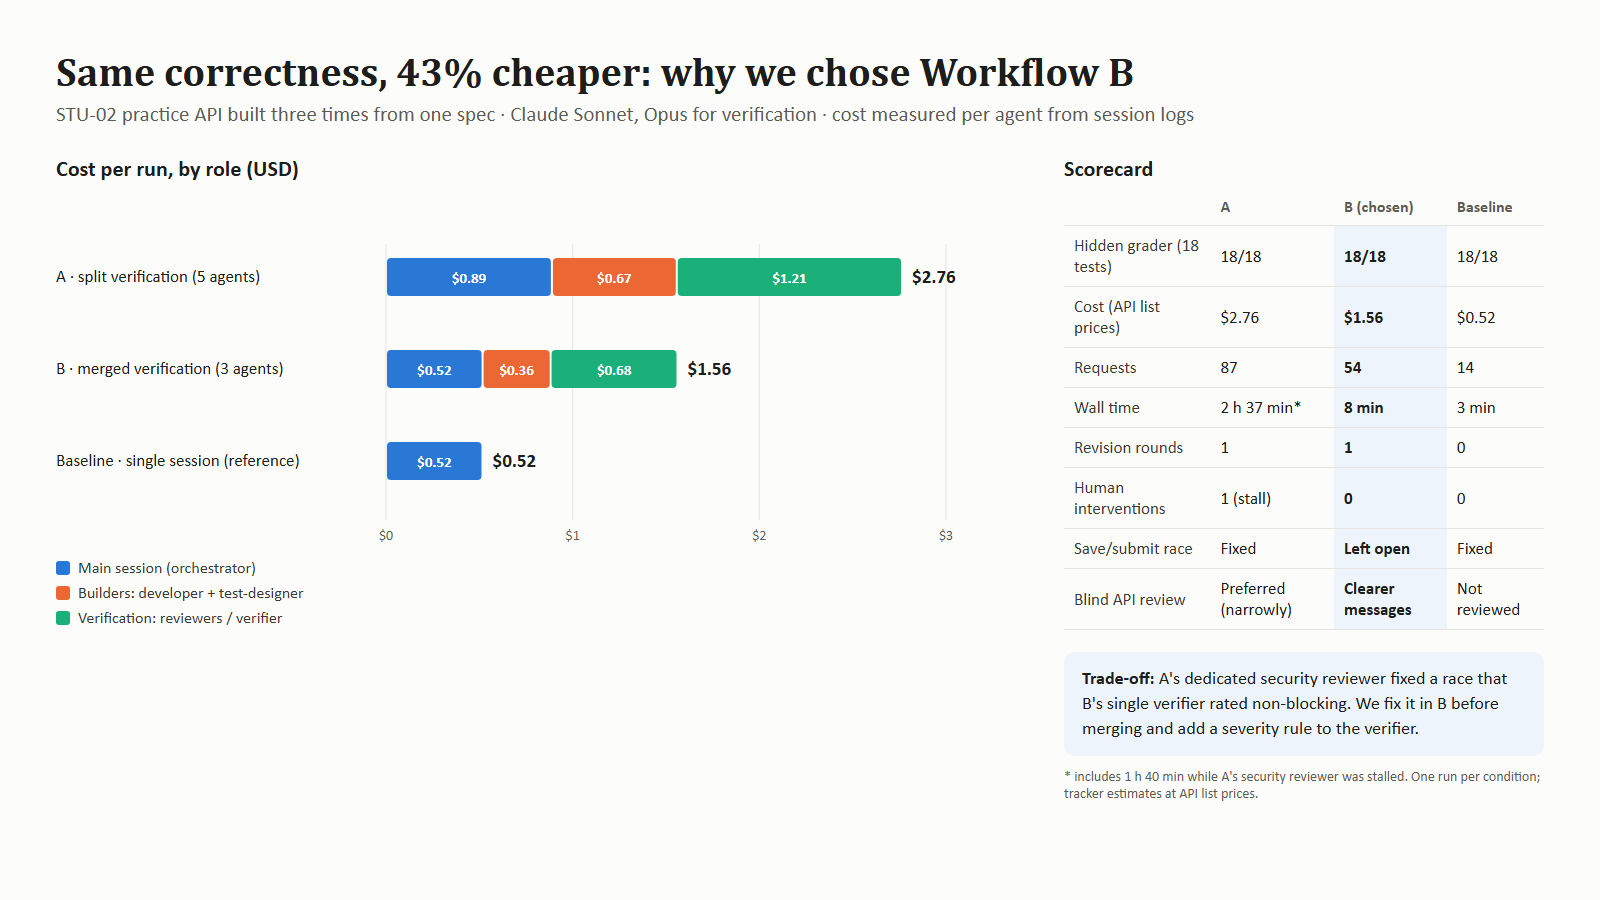
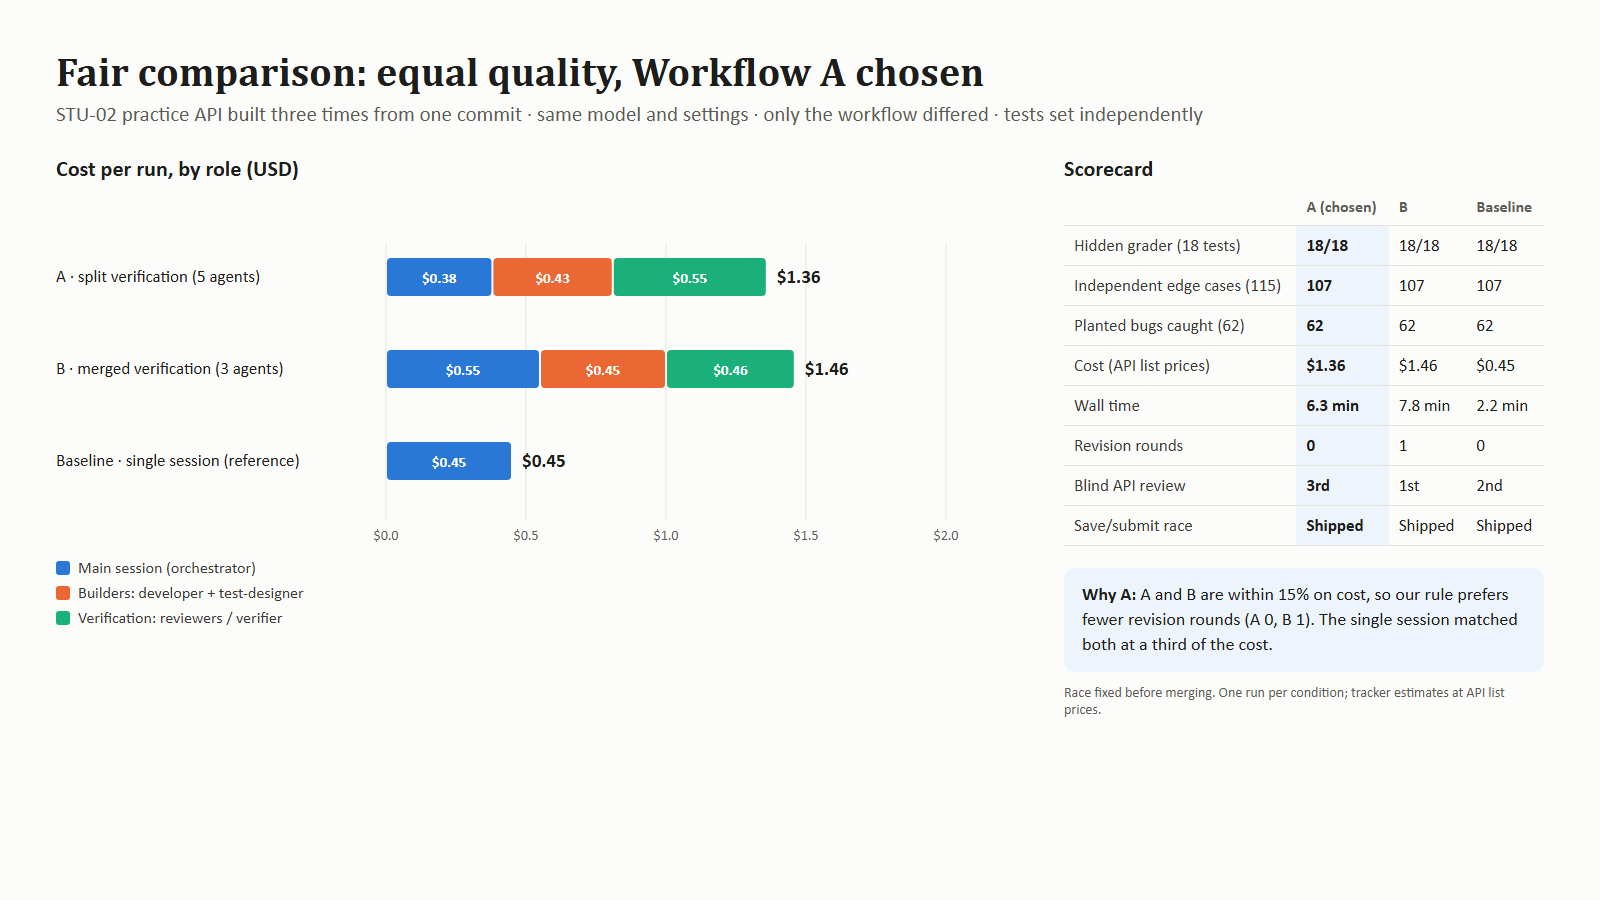
docs: update the comparison image to the fair runs; add process notes

diff --git a/workflow/experiments/stu02/fair/README.md b/workflow/experiments/stu02/fair/README.md
@@ -35,6 +35,11 @@ All three runs fail the same 8 scenarios:
 
 Every run's own suite caught all 62 planted bugs (only the health test was excluded, as the reference has no health endpoint).
 
+## Process notes
+- The fair baseline never saw its tests fail first: a combined shell command failed to parse, so it wrote the code and ran everything together (all passed). Its tests-first claim is therefore not verified.
+- Fair A needed no revision round; fair B used one, for documentation only.
+- In both A and B the reviewers saw the save/submit race and rated it non-blocking; the baseline's self-review did not mention concurrency.
+
 ## Decision (pre-set rule)
 All qualify (100% of the hidden grader, no leakage, ownership holds); the baseline is a reference only. A and B are within the 15% cost band (A 7% cheaper), so the tie-break is fewer revision rounds and interventions: A used 0 rounds, B 1. **The rule picks Variant A.** The blind API review preferred B (only B honoured the documented check order for wrongly shaped bodies); everything else was level.
 
